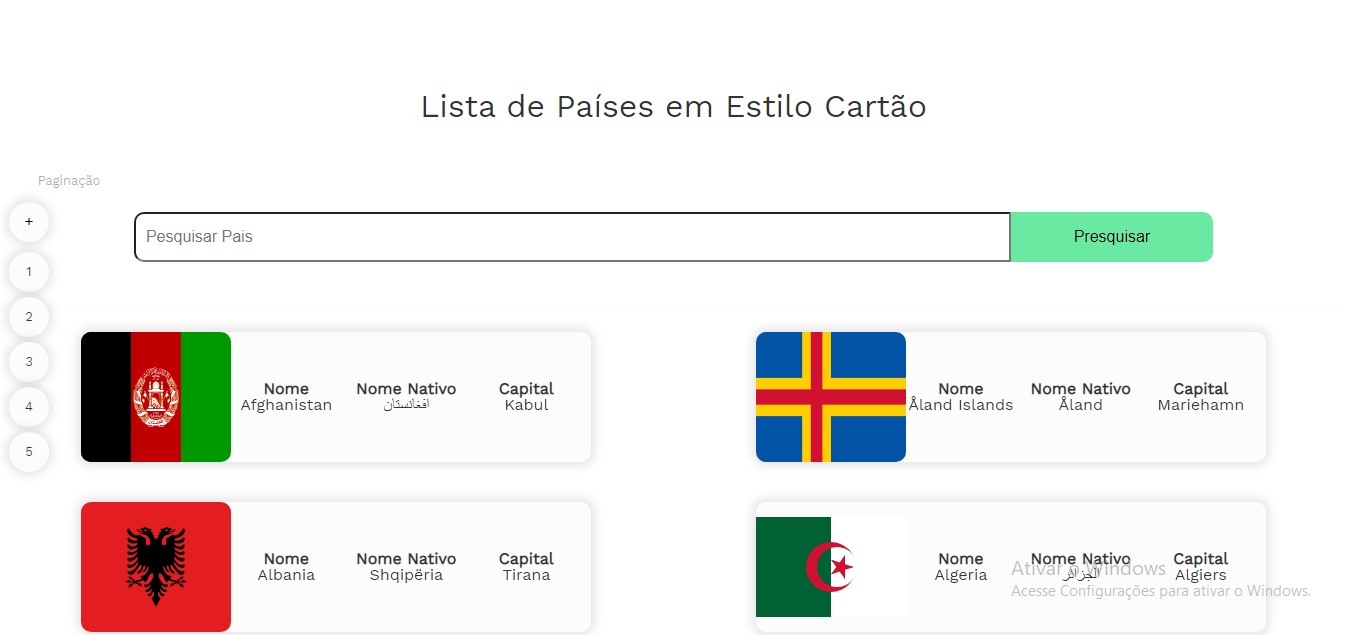
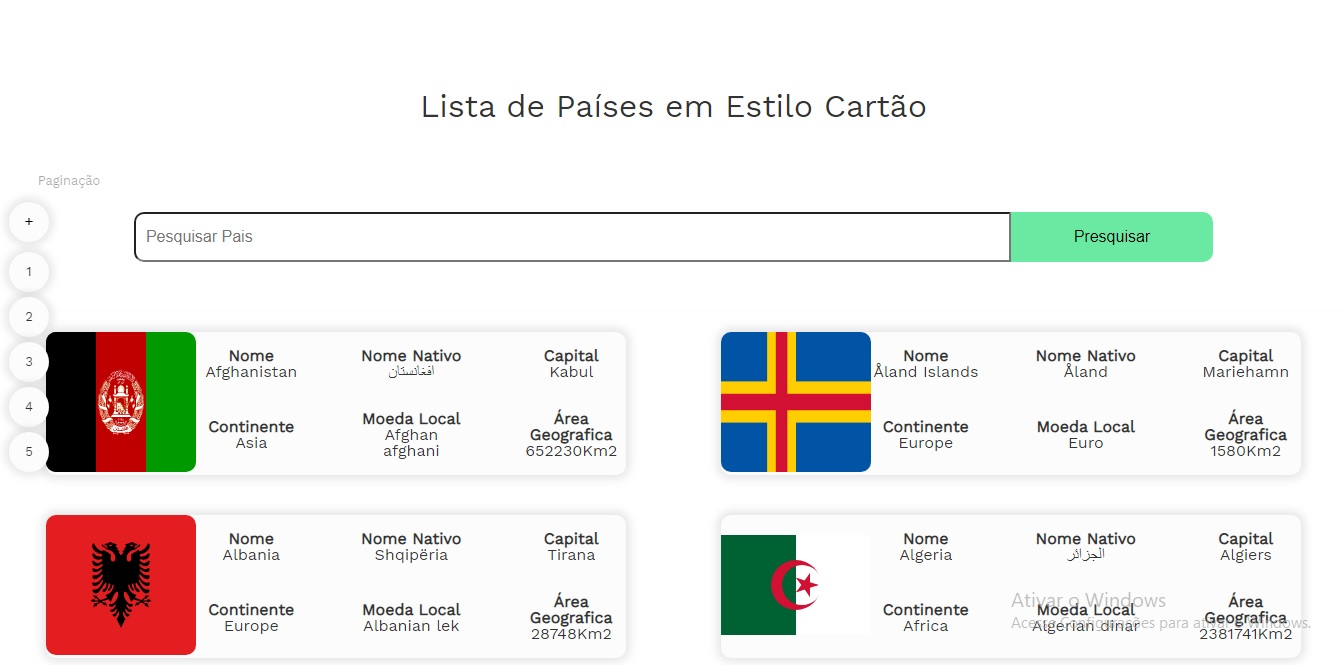
Atualização de informações de países, arquivos readme e css

diff --git a/src/components/cartoesPaises.vue b/src/components/cartoesPaises.vue
@@ -8,11 +8,9 @@
                 <tr><p><strong>Nome</strong></p><p>{{pais.name}}</p></tr>
                 <tr><p><strong>Nome Nativo</strong></p><p>{{pais.nativeName}}</p></tr>
                 <tr><p><strong>Capital</strong></p><p>{{pais.capital}}</p></tr>
-                <div :class="classesDinamicas">
-                    <tr><p><strong>Continente</strong></p><p>{{pais.region}}</p></tr>
-                    <tr><p><strong>Moeda Local</strong></p><p>{{pais.currencies[0].name}}</p></tr>
-                    <tr><p><strong>Área Geografica</strong></p><p>{{pais.area}}Km2</p></tr>
-                </div>
+                <tr><p><strong>Continente</strong></p><p>{{pais.region}}</p></tr>
+                <tr><p><strong>Moeda Local</strong></p><p>{{pais.currencies[0].name}}</p></tr>
+                <tr><p><strong>Área Geografica</strong></p><p>{{pais.area}}Km2</p></tr>
             </td>
         </table>
         <span v-show="pesquisaInesistente">Ops, não encontramos este País, verifique o campo pesquisa</span>
@@ -112,7 +110,6 @@ export default {
 </script>
 
 <style scooped>
-
 .containerCartoes{
     display: flex;
     width: 100%;
@@ -121,40 +118,32 @@ export default {
 }
 table{
     display: flex;
-    max-width: 510px;
-    height:130px;
+    max-width: 580px;
     justify-content: space-between;
     border-radius: 10px;
     box-shadow: 0 0 10px 4px rgba(2, 2, 19, 0.10);
     background-color: #fcfcfc;
     margin: 20px 0;
-    transition-duration: 0.5s;
 }
 table:hover{
     cursor: pointer;
     box-shadow: 0 0 15px 7px rgba(2, 2, 19, 0.10);
 }
-.bandeiraPais{
+.bandeiraPais img{
     width: 150px;
-    height: 130px;
-}
-table img{
-    width: 100%;
-    height: 100%;
-    border-radius: 10px;
+    height: 140px;
+    border-radius:10px;
 }
 td{
-    display: flex;  
+    display: flex;
     align-items: center;
     justify-content: space-between;
     flex-wrap: wrap;
 }
-strong{
-    font-weight: bold;
+tr{
+    width: 110px;     
 }
 td p{
-    width: 110px; 
-    margin-right: 10px;
     text-align: center;
 }
 span{
@@ -162,48 +151,46 @@ span{
     font-size: 1.5rem;
     color: rgb(252, 150, 150);
 }
-.mostrar{
-    display: flex;  
-    align-items: center;
-    justify-content: flex-end;
-    flex-wrap: wrap;
-}
-.ocultar{
-    display: none;
-}
 @media screen and (min-width: 542px) and (max-width: 690px){
-    .bandeiraPais{
+    .bandeiraPais img{
         width: 90px;
         height: 90px;
     }
     table{
+        max-width: 520px;
         height: 90px;
         margin: 20px 0;
     }
 }
 @media screen and (max-width: 541px){
-    .bandeiraPais{
+    .bandeiraPais img{
         width: 90px;
         height: 90px;
     }
     table{
+        width: 90%;
         height: 90px;
         margin: 20px 0;
     }
 }
 @media screen and (min-width: 300px) and (max-width: 475px){
-    .bandeiraPais{
-        width: 70px;
-        height: 70px;
+    .bandeiraPais img{
+        width: 90px;
+        height: 90px;
+    }
+    td{
+        justify-content: space-around;
+    }
+    tr{
+        width: 55px;
+        margin-right: 5px;
     }
     td p{
-        width: 65px; 
-        margin-right: 5px;
         text-align: center;
-        font-size: 0.6rem;
+        font-size: 0.5rem;
     }
     table{
-        height: 70px;
+        width: 300px;
         margin: 10px 0;
     }
 }

diff --git a/src/components/redesSociais.vue b/src/components/redesSociais.vue
@@ -2,11 +2,11 @@
     <div class="redesSociais" >
         <div  class="linkedin"><a href="https://www.linkedin.com/in/rom%C3%A1rio-francisco-4aa7151b2" target="blanck">
             <img src="../assets/iconeLinkedin.svg" alt="Meu Linkedin"/></a>
-            <span class="spanLinkedin">Linkedin</span>
+            <span>Linkedin</span>
         </div> 
         <div class="gitHub"><a href="https://github.com/Romario-Francisco-Soares" target="blanck">
             <img src="../assets/iconeGithub.svg" alt="Meu GitHub"/></a>
-            <span class="spanGithub">Github</span>     
+            <span>Github</span>     
         </div>   
     </div>
 </template>

diff --git a/src/App.vue b/src/App.vue
@@ -74,7 +74,7 @@ h1{
     margin: 30px 0;
    }
 }
-@media screen and (max-width: 300px) and (max-width: 475px){
+@media screen and (min-width: 300px) and (max-width: 475px){
    h1{
     font-size: 1rem;
     margin: 25px 0;

diff --git a/README.md b/README.md
@@ -1,88 +1,105 @@
 # CountrySearch
-CountrySearch é um sistema de pesquisa de países através do nome destes, podendo ser o nome nativo, <br> 
+
+CountrySearch é um sistema de pesquisa de países através do nome destes, podendo ser o nome nativo, <br>
 nome na linguagem inglesa ou ainda o nome de sua Capital.
 
 ## Interface
 
+![inicio_pc](https://github.com/Romario-Francisco-Soares/countrySearch_apiRequest_gamific/blob/main/gitReadme/img/header.jpg)
 
+![navegacao_pc](https://github.com/Romario-Francisco-Soares/countrySearch_apiRequest_gamific/blob/main/gitReadme/img/header%2Bnavega%C3%A7%C3%A3o.jpg)
 
-## Tecnologias Utilizadas
- ✔ Framework vueJs <br>
- ✔ Css flexbox<br>
- ✔ Axios<br>
- ✔ ApiRest<br>
- ✔ Layout responsivo<br>
- ✔ Ui/Ux design<br>
-  
-  
-## Metodologias e tecnicas
-  Clean Code
-  Solid
+![pesquisa_pc](https://github.com/Romario-Francisco-Soares/countrySearch_apiRequest_gamific/blob/main/gitReadme/img/pesquisa.jpg)
 
+![informacoes_contato_pc](https://github.com/Romario-Francisco-Soares/countrySearch_apiRequest_gamific/blob/main/gitReadme/img/footer.jpg)
 
-## E os 'por quês' ?
+![inicio_mobile](https://github.com/Romario-Francisco-Soares/countrySearch_apiRequest_gamific/blob/main/gitReadme/img_mobile/header_mobile.jpg)
 
- - Framework vueJs <br>
-VueJs é uma framework que consegue fazer o mesmo que outras soluções, mas com menos processamento (fazer mais, com menos),
-podendo ser visto em recursos como "data Bind".
-Possui uma documentação de fácil entendimento(Simples).
-Possui grande comunidade ativa (Se mantem crescendo no mercado).
-Virtual Dom.
+![navegacao_mobile](https://github.com/Romario-Francisco-Soares/countrySearch_apiRequest_gamific/blob/main/gitReadme/img_mobile/pesquisa_mobile.jpg)
 
-  - Css flexbox<br>
-Diminuir as linhas sempre é bom !
-A utilização do flexbox neste projeto ao invés de frameworks como bootstrap, possíbilitou diminuição no carregamento 
-de anexos à página, ganhando assim menor consumo de ms, o que proporciona a usuarios de dados móveis, uma boa economia.
-Devido também ao Layout minimalista, o flexbox deminuiu a quantidade de linhas em relação ao css grid 
-
- - Axios<br>
-Axios é uma ferramenta de código aberto diponível para utilização, devido a sua grande quantidade <br>
-de usuarios, a utilização dela poderia trazer maior velocidade na resolução de problemas que viessem a acontecer<br>
-(felizmente, não houve nenhum Hehe).
-
-- ApiRest<br>
-Foi utilizado recurso Api para acesso as informações dos países disponíveis para pesquisa.
-
- - Layout Responsivo<br>
-Vivemos uma era digital e continuamos evoluindo todos os dias, não adaptar recursos web a grande demanda dos smartphones,<br>
-poderá significar obsoletismo.
-
- - Ui/Ux design<br>
-Um usuario não se manteria utilizando algo que não lhe agrada, dar a ele uma boa experiencia é essêncial para o crescimento <br>
-de qualquer software.
-
- - Clean Code & Solid<br>
-A utilização do clean code e solid fácilitam o entendimento, depuração, e implementações ao código, busquei fazer funções seguindo o principio
-fechado/aberto, responsabilidade única, e segregação de interfaces. 
-Assim como também buscando deixa-lo o mais fácil de se ler, para uma possível implementação, processo de testes e etc.
-
-
-## Dependências
-VueCli
-Axios
+![informacoes_contato_mobile](https://github.com/Romario-Francisco-Soares/countrySearch_apiRequest_gamific/blob/main/gitReadme/img_mobile/footer_mobile.jpg)
 
 ## Video
 
 http://
+
+## Tecnologias Utilizadas
+
+✔ Framework vueJs <br>
+✔ Css flexbox<br>
+✔ Axios<br>
+✔ Api<br>
+
+## Metodologias e tecnicas
+
+✔ Layout responsivo<br>
+✔ Ui/Ux design<br>
+✔ Clean Code<br>
+✔ Solid<br>
+
+## E os 'por quês' ?
+
+- Framework vueJs <br>
+  VueJs é uma framework que consegue fazer o mesmo que outras soluções, mas com menos processamento (fazer mais, com menos),
+  podendo ser visto em recursos como "data Bind".
+  Possui uma documentação de fácil entendimento(Simples).
+  Possui grande comunidade ativa (Se mantem crescendo no mercado).
+  Virtual Dom.
+
+- Css flexbox<br>
+  Diminuir as linhas sempre é bom !
+  A utilização do flexbox neste projeto ao invés de frameworks como bootstrap, possíbilitou diminuição no carregamento
+  de anexos à página, ganhando assim menor consumo de ms, o que proporciona a usuarios de dados móveis, uma boa economia.
+  Devido também ao Layout minimalista, o flexbox deminuiu a quantidade de linhas em relação ao css grid
+
+- Axios<br>
+  Axios é uma ferramenta de código aberto diponível para utilização, devido a sua grande quantidade <br>
+  de usuarios, a utilização dela poderia trazer maior velocidade na resolução de problemas que viessem a acontecer<br>
+  (felizmente, não houve nenhum Hehe).
+
+- Api<br>
+  Foi utilizado recurso Api para acesso as informações dos países disponíveis para pesquisa.
+
+- Layout Responsivo<br>
+  Vivemos uma era digital e continuamos evoluindo todos os dias, não adaptar recursos web a grande demanda dos smartphones,<br>
+  poderá significar obsoletismo.
+
+- Ui/Ux design<br>
+  Um usuario não se manteria utilizando algo que não lhe agrada, dar a ele uma boa experiencia é essêncial para o crescimento <br>
+  de qualquer software.
+
+- Clean Code & Solid<br>
+  A utilização do clean code e solid fácilitam o entendimento, depuração, e implementações ao código, busquei fazer funções seguindo o principio
+  fechado/aberto, responsabilidade única, e segregação de interfaces.
+  Assim como também buscando deixa-lo o mais fácil de se ler, para uma possível implementação, processo de testes e etc.
+
+## Dependências
+
+VueCli<br>
+Axios<br>
 
 ```
 npm install
 ```
 
 ### Compiles and hot-reloads for development
+
 ```
 npm run serve
 ```
 
 ### Compiles and minifies for production
+
 ```
 npm run build
 ```
 
 ### Lints and fixes files
+
 ```
 npm run lint
 ```
 
 ### Customize configuration
+
 See [Configuration Reference](https://cli.vuejs.org/config/).
